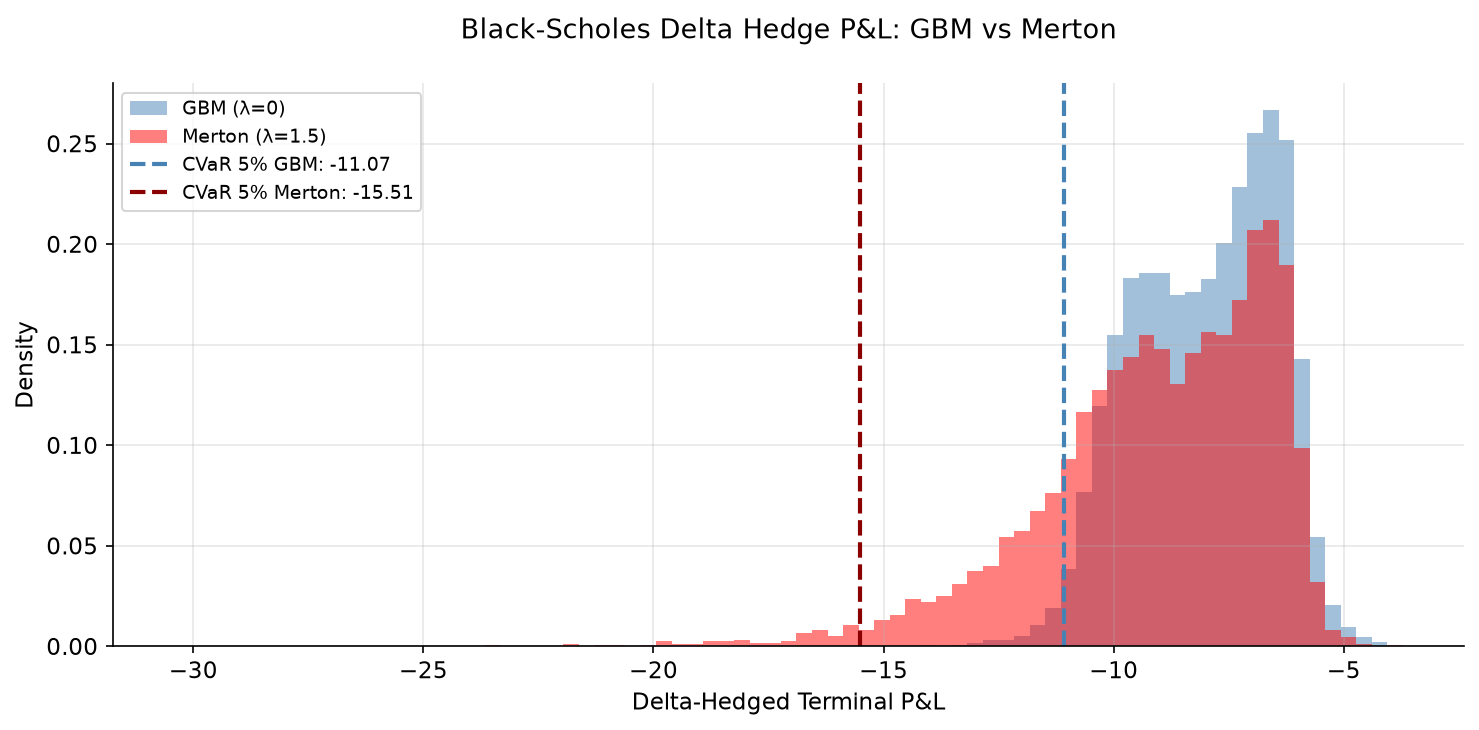
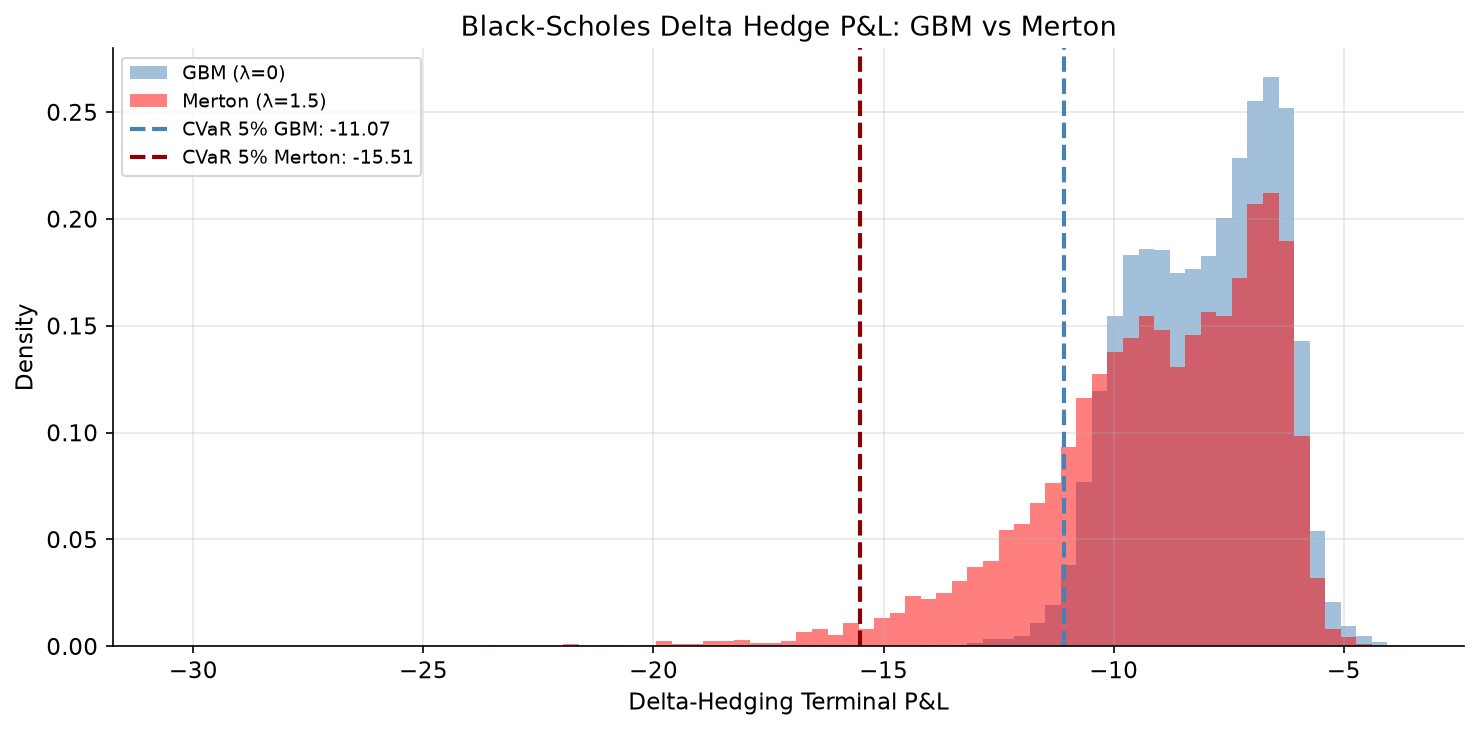
Phase 1 complete, Initialised phase 2

diff --git a/evaluation/evaluate_baseline.py b/evaluation/evaluate_baseline.py
@@ -1,0 +1,82 @@
+import numpy as np
+import matplotlib.pyplot as plt
+import os
+from env.hedging_env import HedgingEnv
+from agent.bs_baseline import BlackScholesBaselineAgent
+
+def compuate_cvar(pnl:np.ndarray ,alpha:float = 0.05):
+    threshold = np.quantile(pnl, alpha)
+    tail = pnl[pnl <= threshold]
+    return float(np.mean(tail))
+
+def eval_baseline_agent(num_ep: int = 10_000, seed: int = 42):
+    np.random.seed(seed)
+    env = HedgingEnv()
+    agent = BlackScholesBaselineAgent(env)
+
+    pnls = []
+    knock_out_count = 0
+
+    for e in range(num_ep):
+        res = agent.run_ep()
+        pnls.append(res["total_pnl"])
+
+        if res["knocked_out"]:
+            knock_out_count += 1
+
+        if (e + 1) % 1000 == 0:
+            print(f"----- Episode {e + 1}/{num_ep} Completed -----")
+
+    pnl = np.array(pnls)
+
+    metrics = {
+        "avg_pnl": float(np.mean(pnl)),
+        "std_pnl": float(np.std(pnl)),
+        "var_5": float(np.quantile(pnl, 0.05)),
+        "cvar_5": float(compuate_cvar(pnl, alpha=0.05)),
+        "min_pnl": float(np.min(pnl)),
+        "max_pnl": float(np.max(pnl)),
+        "knock_out_rate": float(knock_out_count / num_ep) * 100,
+        "knock_out_count": knock_out_count,
+    }
+
+    return pnl, metrics
+
+def plot_pnl_dist(pnl: np.ndarray, metrics: dict):
+    os.makedirs("plots", exist_ok=True)
+
+    fig, ax = plt.subplots(figsize=(10, 5))
+
+    ax.hist(pnl, bins=100, color="steelblue", alpha=0.7, edgecolor="none", label="Black-Scholes Baseline Agent P&L", density=True)
+
+    ax.axvline(metrics["cvar_5"], color="red", linestyle="--", linewidth=2, label=f"CVaR 5%: {metrics['cvar_5']:.2f}")
+    ax.axvline(metrics["var_5"], color="orange", linestyle="--", linewidth=2, label=f"5%: {metrics['var_5']:.2f}")
+    ax.axvline(metrics["min_pnl"], color="black", linestyle=":", linewidth=1, label=f"Min P&L: {metrics['min_pnl']:.2f}")
+    ax.axvline(metrics["avg_pnl"], color="black", linestyle=":", linewidth=1, label=f"Avg P&L: {metrics['avg_pnl']:.2f}")
+    ax.axvline(metrics["max_pnl"], color="black", linestyle=":", linewidth=1, label=f"Max P&L: {metrics['max_pnl']:.2f}")
+
+    ax.set_xlabel("P&L")
+    ax.set_ylabel("Frequency")
+
+    ax.set_title("Distribution of P&L for Black-Scholes Baseline Agent (10,000 episodes)")
+    ax.legend()
+    ax.grid(True)
+    plt.tight_layout()
+    plt.savefig("plots/baseline_agent_pnl_dist.png", dpi=150, bbox_inches="tight")
+    plt.close()
+
+    print("Saved: plots/bs_baseline_pnl.png")
+
+def print_metrics(metrics: dict):
+    print(f"Average P&L: {metrics['avg_pnl']:.2f}")
+    print(f"Standard Deviation: {metrics['std_pnl']:.2f}")
+    print(f"CVaR 5%: {metrics['cvar_5']:.2f}")
+    print(f"VaR 5%: {metrics['var_5']:.2f}")
+    print(f"Min P&L: {metrics['min_pnl']:.2f}")
+    print(f"Max P&L: {metrics['max_pnl']:.2f}")
+    print(f"Knock-out Rate: {metrics['knock_out_rate']:.2f}%")
+
+if __name__ == "__main__":
+    pnl, metrics = eval_baseline_agent()
+    plot_pnl_dist(pnl, metrics)
+    print_metrics(metrics)

diff --git a/env/hedging_env.py b/env/hedging_env.py
@@ -1,7 +1,9 @@
-import numpy as np
 import gymnasium as gym
+import numpy as np
 from gymnasium import spaces
+
 from env.merton import MertonSimulator
+
 
 class HedgingEnv(gym.Env):
     """
@@ -9,7 +11,9 @@ class HedgingEnv(gym.Env):
 
     metadata = {"render_modes": []}
 
-    def __init__(self, S0: float = 100.0, K:float = 100.0, B: float = 75.0, r:float = 0.05, sigma:float = 0.20, lam: float = 1.5, mu_J: float = -0.04, sigma_J: float = 0.08, T: float = 1.0,num_steps: int = 50, transaction_cost: float =0.001, rho: float = 0.5,lam_override: float = None):
+    def __init__(self, S0: float = 100.0, K: float = 100.0, B: float = 75.0, r: float = 0.05, sigma: float = 0.20,
+                 lam: float = 1.5, mu_J: float = -0.04, sigma_J: float = 0.08, T: float = 1.0, num_steps: int = 50,
+                 transaction_cost: float = 0.001, rho: float = 0.5, lam_override: float = None):
         super().__init__()
 
         self.S0 = S0
@@ -34,15 +38,15 @@ class HedgingEnv(gym.Env):
 
         # define the observation space (S/S0, (T-t)/T, prev_delta, z)
         self.observation_space = spaces.Box(
-            low = np.array([0.0, 0.0,0.0, -3.0], dtype=np.float32),
-            high = np.array([5.0, 1.0, 1.0, 3.0], dtype=np.float32),
+            low=np.array([0.0, 0.0, 0.0, -3.0], dtype=np.float32),
+            high=np.array([5.0, 1.0, 1.0, 3.0], dtype=np.float32),
             dtype=np.float32
         )
 
         # define the action space [delta_hedge, delta_equity]
         self.action_space = spaces.Box(
-            low = np.array([0.0, 0.0], dtype=np.float32),
-            high = np.array([1.0, 1.0], dtype=np.float32),
+            low=np.array([0.0, 0.0], dtype=np.float32),
+            high=np.array([1.0, 1.0], dtype=np.float32),
             dtype=np.float32
         )
 
@@ -55,22 +59,29 @@ class HedgingEnv(gym.Env):
     def generate_sentiment_signal(self, prices: np.ndarray) -> np.ndarray:
         """
         This function generates a signal based on the jump arrivals which is detected via a large log return threshold.
-        :param prices:
-        :return:
+        :param prices: the price path
+        :return: a clipped sentiment signal
         """
 
+        # compute the log returns
         n = len(prices)
         log_returns = np.zeros(n)
         log_returns[1:] = np.log(prices[1:] / prices[:-1])
 
-        jump_threshold = 2.0 *  self.sigma * np.sqrt(self.dt)
+        # compute the jump arrivals
+        jump_threshold = 2.0 * self.sigma * np.sqrt(self.dt)
         jump_flags = (np.abs(log_returns) > jump_threshold).astype(int)
 
+        # sample a noise signal
         noise = np.random.uniform(-1.0, 1.0, n)
 
+        # informative signal is 1 if the jump occurred and -1 otherwise
         informative = jump_flags * 2.0 - 1.0
 
+        # combine the informative and noise signals
         signal = self.rho * informative + (1.0 - self.rho) * noise
+
+        # return a clipped signal
         return np.clip(signal, -1.0, 1.0).astype(np.float32)
 
     def reset(self, seed=None, options=None):
@@ -101,7 +112,7 @@ class HedgingEnv(gym.Env):
 
         # get the prices and compute the price change for the pnl
         S_t = self.prices[self.t]
-        S_tp1 = self.prices[self.t+1]
+        S_tp1 = self.prices[self.t + 1]
         dS = S_tp1 - S_t
 
         pnl = delta_hedge * dS - delta_equity * S_t
@@ -109,7 +120,7 @@ class HedgingEnv(gym.Env):
         transaction_cost = self.transaction_cost * np.sum(np.abs(action - self.prev_delta)) * S_t
         reward = pnl - transaction_cost
 
-        #update interanl state
+        # update interanl state
         self.t += 1
         self.prev_delta = action
 
@@ -117,14 +128,14 @@ class HedgingEnv(gym.Env):
         if S_tp1 <= self.B:
             self.knocked_out = True
 
-        terminated = (self.t==self.num_steps)
+        terminated = (self.t == self.num_steps)
         truncated = False
 
         if terminated:
             reward += self._terminal_adjustment(S_tp1)
 
         observations = self._get_observations()
-        info ={
+        info = {
             "S_tp1": S_tp1,
             "knocked_out": self.knocked_out,
             "pnl": pnl,
@@ -134,11 +145,10 @@ class HedgingEnv(gym.Env):
         return observations, reward, terminated, truncated, info
 
     def _get_observations(self) -> np.ndarray:
-        # TODO: complete
 
         # get the current prices, time remaining and sentiment signal
         S_t = self.prices[self.t]
-        time_remaining = (self.T - self.t*self.dt)/self.T
+        time_remaining = (self.T - self.t * self.dt) / self.T
         z_t = self.sentiment[self.t]
 
         # get the current observations
@@ -146,21 +156,19 @@ class HedgingEnv(gym.Env):
             S_t / self.S0, time_remaining, self.prev_delta[0], z_t
         ], dtype=np.float32)
 
+        return observations
+
     def _terminal_adjustment(self, S_T: float) -> float:
-        # function to adjust the reward for the terminal state for the option payoff
+        """
+        function to adjust the reward for the terminal state for the option payoff
+        :param S_T: terminal stock price
+        :return: adjusted reward
+        """
+
+        # check if option was already knocked out
         if self.knocked_out:
             return 0.0
 
         else:
-            # minus as we are short the barrier option
+            # negate as we are short the barrier option
             return -max(S_T - self.K, 0.0)
-
-
-
-
-
-
-
-
-
-

diff --git a/env/vec_hedging_env.py b/env/vec_hedging_env.py
@@ -1,0 +1,39 @@
+import numpy as np
+from env.merton import MertonSimulator
+
+class VecHedgingEnv:
+    """
+
+    """
+
+    def __init__(self):
+        # TODO: implement
+        pass
+
+    def _simulate_price_paths(self):
+        # TODO: implement
+        pass
+
+    def _generate_sentiment_signals(self):
+        # TODO: implement
+        pass
+
+    def reset(self):
+        # TODO: implement
+        pass
+
+    def step(self):
+        # TODO: implement
+        pass
+
+    def _get_observations(self):
+        # TODO: implement
+        pass
+
+    def _terminal_adjustment(self):
+        # TODO: implement
+        pass
+
+    def set_lam_override(self):
+        # TODO: implement
+        pass

diff --git a/utils/plots.py b/utils/plots.py
@@ -170,8 +170,7 @@ def plot_terminal_distribution(n_paths=50_000, seed=42):
     )
 
     fig.suptitle(
-        "Fat Tails Under Jump-Diffusion — "
-        "Motivating CVaR-Targeted Hedging",
+        "Fat Tails Under Jump-Diffusion Dynamics",
         fontsize=13, fontweight="bold"
     )
     plt.tight_layout()
@@ -238,17 +237,16 @@ def plot_mc_convergence(seed=42):
 
     fig, axes = plt.subplots(1, 2, figsize=(13, 5))
 
-    # --- Left: MC price convergence ---
     ax = axes[0]
     ax.semilogx(checkpoints, mc_prices, color="steelblue",
                 linewidth=1.5, label="Monte Carlo estimate")
     ax.axhline(analytical, color="red", linestyle="--",
-               linewidth=1.5, label=f"Analytical: £{analytical:.4f}")
+               linewidth=1.5, label=f"Analytical: {analytical:.4f}")
     ax.fill_between(checkpoints,
                     analytical - 0.5, analytical + 0.5,
                     alpha=0.1, color="red")
     ax.set_xlabel("Number of Simulated Paths")
-    ax.set_ylabel("European Call Price (£)")
+    ax.set_ylabel("European Call Price")
     ax.set_title("Monte Carlo Price Convergence")
     ax.legend(fontsize=9)
 
@@ -262,25 +260,24 @@ def plot_mc_convergence(seed=42):
     ax.loglog(checkpoints, theoretical, color="red", linestyle="--",
               linewidth=1.0, label=r"$O(1/\sqrt{n})$ reference")
     ax.set_xlabel("Number of Simulated Paths")
-    ax.set_ylabel("Absolute Error (£)")
+    ax.set_ylabel("Absolute Error")
     ax.set_title("Convergence Rate")
     ax.legend(fontsize=9)
 
     fig.suptitle(
-        "Simulator Validation: Monte Carlo Converges to "
-        "Analytical Merton Price",
+        "Simulator Validation with Monte Carlo",
         fontsize=13, fontweight="bold"
     )
     plt.tight_layout()
-    path = os.path.join(PLOT_DIR, "mc_convergence.png")
+    path = os.path.join(PLOT_DIR, "simulator_validation_with_mc.png")
     plt.savefig(path, dpi=150, bbox_inches="tight")
     print(f"Saved: {path}")
     plt.show()
 
     print(f"\nFinal MC price ({n_total:,} paths): "
-          f"£{mc_prices[-1]:.4f}")
-    print(f"Analytical price:               £{analytical:.4f}")
-    print(f"Final error:                    £{errors[-1]:.4f}")
+          f"{mc_prices[-1]:.4f}")
+    print(f"Analytical price: {analytical:.4f}")
+    print(f"Final error: {errors[-1]:.4f}")
 
 
 # =============================================================
@@ -364,12 +361,10 @@ def plot_jump_impact_on_hedging(n_paths=10_000, seed=42):
     ax.axvline(cvar_merton, color="darkred", linestyle="--",
                linewidth=2, label=f"CVaR 5% Merton: {cvar_merton:.2f}")
 
-    ax.set_xlabel("Delta-Hedged Terminal P&L")
+    ax.set_xlabel("Delta-Hedging Terminal P&L")
     ax.set_ylabel("Density")
     ax.set_title(
-        "Black-Scholes Delta Hedge P&L: GBM vs Merton\n"
-        # "Jump dynamics cause heavier left tail — "
-        # "motivating RL-based hedging"
+        "Black-Scholes Delta Hedge P&L: GBM vs Merton"
     )
     ax.legend(fontsize=9)
     plt.tight_layout()

diff --git a/agent/bs_baseline.py b/agent/bs_baseline.py
@@ -30,7 +30,8 @@ class BlackScholesBaselineAgent:
         intermediate_rewards = []
 
         terminated = False
-        while not terminated:
+        truncated = False
+        while not (terminated or truncated):
             action = self.sel_action(observations)
             observations, reward, terminated, truncated, info = self.env.step(action)
             total_reward += reward